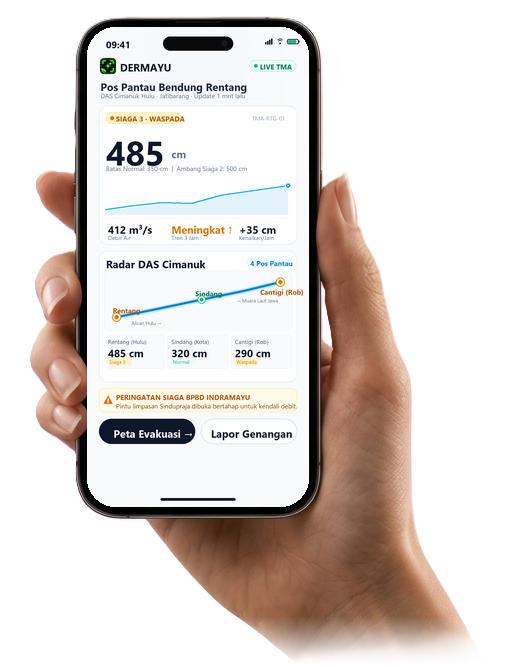
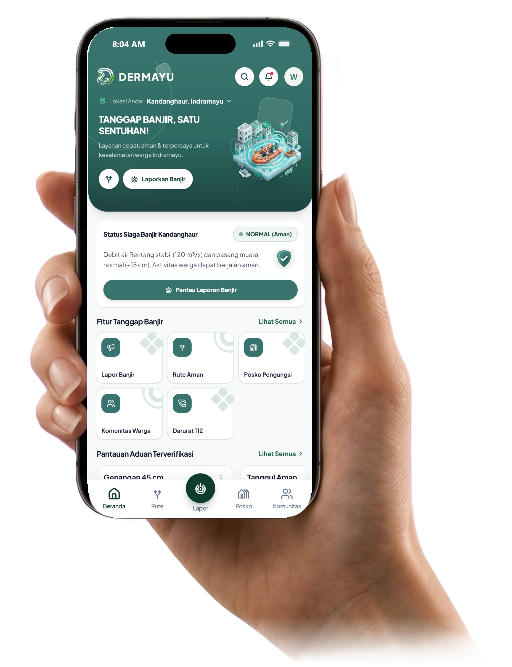
update hero beranda

Changed region(s): [[0.1562, 0.03, 0.625, 0.7796], [0.4062, 0.4798, 0.4375, 0.5097]]

diff --git a/src/components/landing/HeroSection.tsx b/src/components/landing/HeroSection.tsx
@@ -4,7 +4,6 @@ import { useState, useEffect } from "react";
 import Image from "next/image";
 import { motion } from "motion/react";
 import { PwaInstallModal } from "@/components/ui/PwaInstallModal";
-import { HeroPhoneMockup } from "@/components/landing/HeroPhoneMockup";
 
 export function HeroSection() {
   const [showInstallModal, setShowInstallModal] = useState(false);
@@ -135,7 +134,52 @@ export function HeroSection() {
             }}
             className="relative z-10 flex items-center justify-center w-full overflow-visible origin-bottom"
           >
-            <HeroPhoneMockup />
+            {/* Container utama: posisi relative menjadi referensi absolut screen wrapper */}
+            <div className="relative w-[300px] sm:w-[390px] md:w-[450px] lg:w-[500px] xl:w-[560px] max-w-none mx-auto select-none translate-x-7.5 md:translate-x-0">
+
+              {/* Backing hitam solid di bawah layer screen: mengeliminasi 100% celah/kebocoran latar belakang */}
+              <div
+                className="absolute z-0 bg-[#080808] rounded-[20px] sm:rounded-[25px] md:rounded-[30px] lg:rounded-[34px]"
+                style={{
+                  top: "3.2%",
+                  left: "15.8%",
+                  right: "38.2%",
+                  bottom: "22.6%",
+                }}
+              />
+
+              {/* LAYER 1 (z-0): Screen Wrapper – meluncur presisi di bawah bezel fisik iPhone */}
+              <div
+                className="absolute z-0 bg-black isolate overflow-hidden rounded-[16px] sm:rounded-[20px] md:rounded-[23px] lg:rounded-[26px] xl:rounded-[29px] shadow-[inset_0_0_2px_1px_rgba(0,0,0,0.85)]"
+                style={{
+                  top: "3.45%",
+                  left: "16.21%",
+                  right: "38.87%",
+                  bottom: "23.09%",
+                }}
+              >
+                <Image
+                  src="/hero-screen-iphone14promax.png"
+                  alt="Tampilan Layar Dasbor Resmi DERMAYU Kabupaten Indramayu"
+                  fill
+                  priority={true}
+                  quality={100}
+                  sizes="(max-width: 768px) 100vw, 50vw"
+                  className="w-full h-full object-cover object-top select-none scale-[1.03] origin-center"
+                />
+              </div>
+
+              {/* LAYER 2 (z-10): Frame Tangan & Bezel Transparan – menutup tepat di atas screen layer */}
+              <Image
+                src="/hero-hand-frame.png"
+                alt="Antarmuka Pemantauan TMA dan Peringatan Dini DERMAYU Kabupaten Indramayu"
+                width={512}
+                height={667}
+                priority={true}
+                quality={100}
+                className="relative z-10 w-full h-auto object-contain drop-shadow-2xl select-none pointer-events-none"
+              />
+            </div>
           </motion.div>
         </div>
       </div>
